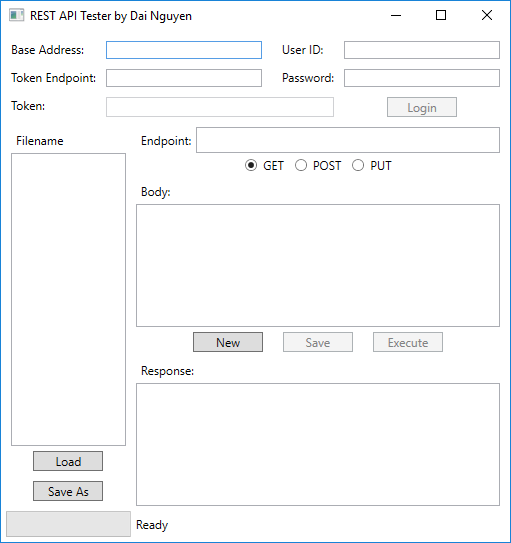
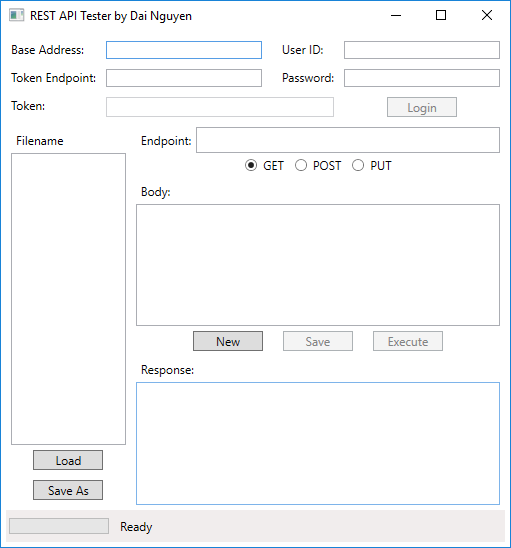
updated

diff --git a/ModuleFooter/Views/FooterView.xaml b/ModuleFooter/Views/FooterView.xaml
@@ -9,19 +9,16 @@
              mc:Ignorable="d" 
              d:DesignHeight="300" d:DesignWidth="300">
     <Grid>
-        <Grid.ColumnDefinitions>
-            <ColumnDefinition Width="*" />
-            <ColumnDefinition Width="3*" />
-        </Grid.ColumnDefinitions>
-        <Grid.RowDefinitions>
-            <RowDefinition Height="Auto" />
-        </Grid.RowDefinitions>
-        
-        <ProgressBar Grid.Row="0" 
-                     Grid.Column="0"                      
-                     IsIndeterminate="{Binding IsIndeterminate}"  />
-        <Label Grid.Row="0" 
-               Grid.Column="1"               
-               Content="{Binding StatusMessage}" />
+        <StatusBar>
+            <StatusBarItem>
+                <ProgressBar Width="100"
+                             Height="16"
+                             IsIndeterminate="{Binding IsIndeterminate}"  />
+            </StatusBarItem>
+            <StatusBarItem>
+                <Label Content="{Binding StatusMessage}" />
+            </StatusBarItem>
+            
+        </StatusBar>
     </Grid>
 </UserControl>

diff --git a/ModuleLeftPane/Views/LeftPaneView.xaml b/ModuleLeftPane/Views/LeftPaneView.xaml
@@ -4,10 +4,17 @@
              xmlns:mc="http://schemas.openxmlformats.org/markup-compatibility/2006" 
              xmlns:d="http://schemas.microsoft.com/expression/blend/2008" 
              xmlns:local="clr-namespace:ModuleLeftPane.Views"
+             xmlns:i="http://schemas.microsoft.com/expression/2010/interactivity"
              xmlns:prism="http://prismlibrary.com/"
              prism:ViewModelLocator.AutoWireViewModel="True"
              mc:Ignorable="d">
 
+    <i:Interaction.Triggers>
+        <prism:InteractionRequestTrigger SourceObject="{Binding ConfirmationRequest, Mode=OneWay}">
+            <prism:PopupWindowAction IsModal="True" CenterOverAssociatedObject="True" />
+        </prism:InteractionRequestTrigger>
+    </i:Interaction.Triggers>
+    
     <Grid Margin="5">
         <Grid.RowDefinitions>
             <RowDefinition Height="Auto" />

diff --git a/ApiTester/Shell.xaml b/ApiTester/Shell.xaml
@@ -6,7 +6,7 @@
         xmlns:prism="http://prismlibrary.com/"
         xmlns:local="clr-namespace:ApiTester"
         mc:Ignorable="d"
-        Title="REST API Tester by Dai Nguyen" Height="550" Width="525">
+        Title="REST API Tester by Dai Nguyen" Height="550" Width="525" MinHeight="555" MinWidth="525">
     
     <Grid Margin="5">
         

diff --git a/ModuleLeftPane/ViewModels/LeftPaneViewModel.cs b/ModuleLeftPane/ViewModels/LeftPaneViewModel.cs
@@ -6,15 +6,16 @@
 
 using Infrastructure.Events;
 using Infrastructure.Models;
+using Microsoft.Win32;
+using Newtonsoft.Json;
 using Prism.Commands;
 using Prism.Events;
+using Prism.Interactivity.InteractionRequest;
 using Prism.Mvvm;
 using System;
 using System.Collections.Generic;
 using System.Collections.ObjectModel;
-using System.Linq;
-using System.Text;
-using System.Threading.Tasks;
+using System.IO;
 
 namespace ModuleLeftPane.ViewModels
 {
@@ -74,8 +75,9 @@ namespace ModuleLeftPane.ViewModels
             }
         }
 
-        public ObservableCollection<HttpModel> Items { get; private set; }
-        
+        public ObservableCollection<HttpModel> Items { get; private set; }        
+        public InteractionRequest<IConfirmation> ConfirmationRequest { get; private set; }
+
         public DelegateCommand LoadCommand { get; private set; }
         public DelegateCommand SaveAsCommand { get; private set; }
         public DelegateCommand DeleteItemCommand { get; private set; }
@@ -87,6 +89,7 @@ namespace ModuleLeftPane.ViewModels
             _eventAggregator.GetEvent<HttpModelSaveEvent>().Subscribe(HttpModelSaveEventHandler);
             Filename = Infrastructure.Properties.Resources.Filename;
             Items = new ObservableCollection<HttpModel>();
+            ConfirmationRequest = new InteractionRequest<IConfirmation>();
 
             LoadCommand = new DelegateCommand(Load);
             SaveAsCommand = new DelegateCommand(SaveAs);
@@ -111,17 +114,90 @@ namespace ModuleLeftPane.ViewModels
 
         private void Load()
         {
+            OpenFileDialog dlg = new OpenFileDialog();
+            dlg.DefaultExt = ".json";
+            dlg.Filter = "Json documents (.json)|*.json";
+            dlg.Multiselect = false;
+            dlg.CheckFileExists = true;
+            dlg.CheckPathExists = true;
 
+            bool? result = dlg.ShowDialog();
+
+            if (result != true)
+            {
+                Message = "Invalid file.";
+                return;
+            }
+
+            Items.Clear();
+            string err = "";
+
+            try
+            {
+                string filename = dlg.FileName;
+                int lastIndex = filename.LastIndexOf('\\') + 1;
+                Filename = filename.Substring(lastIndex);
+                var items = JsonConvert.DeserializeObject<IList<HttpModel>>(File.ReadAllText(filename));
+
+                if (items != null)
+                {
+                    foreach (var item in items)
+                    {
+                        Items.Add(item);
+                    }
+                }
+            }
+            catch (Exception ex)
+            {
+                err = ex.Message ?? Infrastructure.Properties.Resources.Error;
+            }
+            finally
+            {
+                Message = string.IsNullOrEmpty(err) ? Infrastructure.Properties.Resources.Ready : err;
+            }
         }
 
         private void SaveAs()
         {
+            SaveFileDialog dlg = new SaveFileDialog();
+            dlg.DefaultExt = ".json";
+            dlg.Filter = "Json documents (.json)|*.json";
+            
+            bool? result = dlg.ShowDialog();
 
+            if (result != true)                
+                return;
+            
+            string err = "";
+
+            try
+            {
+                string filename = dlg.FileName;
+                int lastIndex = filename.LastIndexOf('\\') + 1;
+                Filename = filename.Substring(lastIndex);
+                File.WriteAllText(filename, JsonConvert.SerializeObject(Items));                
+            }
+            catch (Exception ex)
+            {
+                err = ex.Message ?? Infrastructure.Properties.Resources.Error;
+            }
+            finally
+            {
+                Message = string.IsNullOrEmpty(err) ? Infrastructure.Properties.Resources.Ready : err;
+            }
         }
 
         private void DeleteItem()
         {
-            Items.Remove(SelectedItem);
+            ConfirmationRequest.Raise(new Confirmation
+            {
+                Content = Infrastructure.Properties.Resources.AreYouSure,
+                Title = Infrastructure.Properties.Resources.Confirmation
+            }, c =>
+            {
+                if (c.Confirmed)
+                    Items.Remove(SelectedItem);
+            });            
         }
 
         private bool CanDeleteItem()

diff --git a/Infrastructure/Properties/Resources.Designer.cs b/Infrastructure/Properties/Resources.Designer.cs
@@ -61,6 +61,15 @@ namespace Infrastructure.Properties {
         }
         
         /// <summary>
+        ///   Looks up a localized string similar to Are you sure?.
+        /// </summary>
+        public static string AreYouSure {
+            get {
+                return ResourceManager.GetString("AreYouSure", resourceCulture);
+            }
+        }
+        
+        /// <summary>
         ///   Looks up a localized string similar to Base Address.
         /// </summary>
         public static string BaseAddress {
@@ -84,6 +93,15 @@ namespace Infrastructure.Properties {
         public static string Cancel {
             get {
                 return ResourceManager.GetString("Cancel", resourceCulture);
+            }
+        }
+        
+        /// <summary>
+        ///   Looks up a localized string similar to Confirmation.
+        /// </summary>
+        public static string Confirmation {
+            get {
+                return ResourceManager.GetString("Confirmation", resourceCulture);
             }
         }
         

diff --git a/ModuleRightPane/ViewModels/RightPaneViewModel.cs b/ModuleRightPane/ViewModels/RightPaneViewModel.cs
@@ -185,7 +185,11 @@ namespace ModuleRightPane.ViewModels
 
         private void Save()
         {
-            Body = JsonConvert.SerializeObject(JsonConvert.DeserializeObject(Body), Formatting.Indented);
+            if (!string.IsNullOrEmpty(Body) 
+                && !string.IsNullOrWhiteSpace(Body))
+            {
+                Body = JsonConvert.SerializeObject(JsonConvert.DeserializeObject(Body), Formatting.Indented);
+            }
 
             _eventAggregator.GetEvent<HttpModelSaveEvent>().Publish(new HttpModel
             {

diff --git a/Infrastructure/Events/HttpClientEvent.cs b/Infrastructure/Events/HttpClientEvent.cs
@@ -1,0 +1,15 @@
+/** 
+ * This file is part of the ApiTester project.
+ * Copyright (c) 2015 Dai Nguyen
+ * Author: Dai Nguyen
+**/
+
+using Prism.Events;
+using System.Net.Http;
+
+namespace Infrastructure.Events
+{
+    public class HttpClientEvent : PubSubEvent<HttpClient>
+    {
+    }
+}
